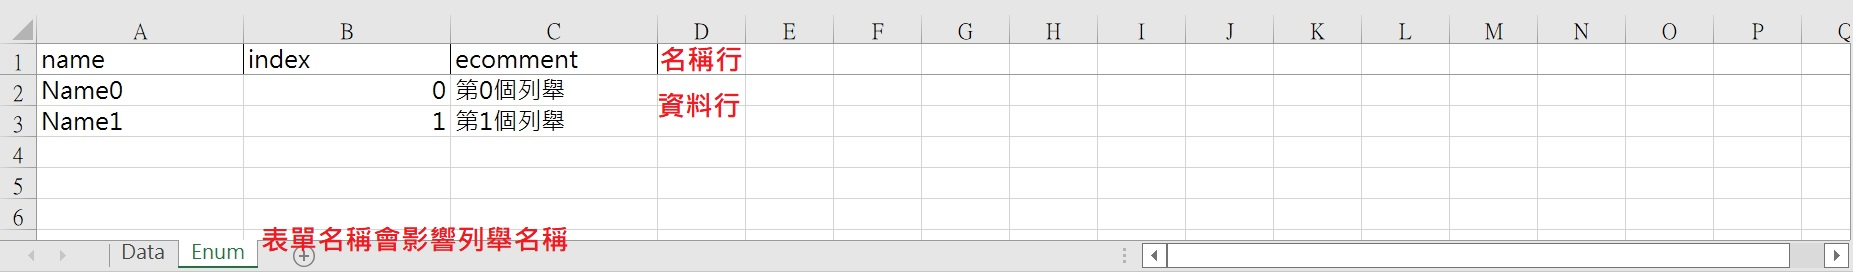
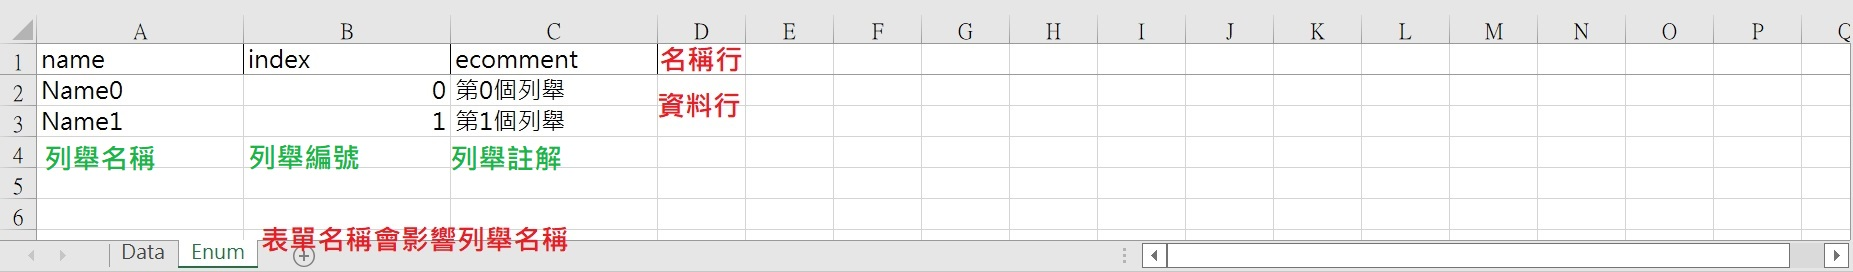
[project] 更新說明文件

Changed region(s): [[0.0, 0.5294, 0.0923, 0.6471], [0.123, 0.5294, 0.2153, 0.6471], [0.2461, 0.5294, 0.3076, 0.6471]]

diff --git a/README.md b/README.md
@@ -237,7 +237,7 @@ sheeter tmpl [flags]
 global:
   exportJson:      true # 是否產生json檔案
   exportProto:     true # 是否產生proto檔案
-  exportEnum       true # 是否產生enum檔案
+  exportEnum:      true # 是否產生enum檔案
   simpleNamespace: true # 是否用簡單的命名空間名稱
   lineOfName:      1    # 名稱行號(1為起始行)
   lineOfNote:      2    # 註解行號(1為起始行)
@@ -255,7 +255,7 @@ elements:
   - excel: excel2.xlsx
     sheet: Data
 
-enums
+enums:
   - excel: excel1.xlsx  # excel檔案名稱
     sheet: Enum         # excel表單名稱
   - excel: excel2.xlsx
@@ -268,7 +268,7 @@ enums
 模板檔案使用[go]的[template]語法, 同時可以參考以下模板參數來做名稱的替換  
 
 ## json結構, 讀取器模板參數
-struct-cs/go, reader-cs/go  
+影響的檔案: json-struct-cs/go, json-reader-cs/go  
 
 | 名稱               | 參數        | 說明                                                      |
 |:-------------------|:------------|:----------------------------------------------------------|
@@ -279,7 +279,7 @@ struct-cs/go, reader-cs/go
 |                    |             | [類型資料](#類型資料參數)                                 |
 
 ## json倉庫模板參數
-depot-cs/go  
+影響的檔案: json-depot-cs/go  
 
 | 名稱               | 參數        | 說明                                                      |
 |:-------------------|:------------|:----------------------------------------------------------|
@@ -296,7 +296,7 @@ depot-cs/go
 | Reader             |             | 是否要產生讀取器                                          |
 
 ## proto結構, 讀取器, proto架構模板參數
-struct-cs/go, reader-cs/go, proto-schema  
+影響的檔案: proto-struct-cs/go, proto-reader-cs/go, proto-schema  
 
 | 名稱               | 參數        | 說明                                                      |
 |:-------------------|:------------|:----------------------------------------------------------|
@@ -308,7 +308,7 @@ struct-cs/go, reader-cs/go, proto-schema
 | .Depend            |             | 依賴列表                                                  |
 
 ## proto倉庫模板參數
-depot-cs/go  
+影響的檔案: proto-depot-cs/go  
 
 | 名稱               | 參數        | 說明                                                      |
 |:-------------------|:------------|:----------------------------------------------------------|
@@ -325,7 +325,7 @@ depot-cs/go
 | Reader             |             | 是否要產生讀取器                                          |
 
 ## enum架構模板參數
-enum-schema  
+影響的檔案: enum-schema  
 
 | 名稱               | 參數        | 說明                                                      |
 |:-------------------|:------------|:----------------------------------------------------------|
@@ -348,11 +348,14 @@ enum-schema
 |:-------------------|:------------|:----------------------------------------------------------|
 | .ExportJson        |             | 是否產生json檔案                                          |
 | .ExportProto       |             | 是否產生proto檔案                                         |
+| .ExportEnum        |             | 是否產生enum檔案                                          |
 | .SimpleNamespace   |             | 是否用簡單的命名空間名稱                                  |
+| .LineOfName        |             | 名稱行號(1為起始行)                                       |
+| .LineOfNote        |             | 註解行號(1為起始行)                                       |
 | .LineOfField       |             | 欄位行號(1為起始行)                                       |
 | .LineOfLayer       |             | 階層行號(1為起始行)                                       |
-| .LineOfNote        |             | 註解行號(1為起始行)                                       |
 | .LineOfData        |             | 資料行號(1為起始行)                                       |
+| .LineOfEnum        |             | 列舉行號(1為起始行)                                       |
 | .Excludes          |             | 排除標籤列表                                              |
 
 ## 命名工具參數
@@ -364,6 +367,7 @@ enum-schema
 | .AppName           |             | 程式名稱                                                  |
 | .JsonNamespace     | bool        | json命名空間名稱, 參數影響是否用簡單的命名空間名稱        |
 | .ProtoNamespace    | bool        | proto命名空間名稱, 參數影響是否用簡單的命名空間名稱       |
+| .EnumNamespace     | bool        | enum命名空間名稱, 參數影響是否用簡單的命名空間名稱        |
 | .StructName        |             | 結構名稱                                                  |
 | .ReaderName        |             | 讀取器名稱                                                |
 | .StorerName        |             | 儲存器名稱                                                |
@@ -518,10 +522,10 @@ enum-schema
 | internal/fields         | 欄位組件                         |
 | internal/layers         | 階層組件                         |
 | internal/layouts        | 布局組件                         |
-| internal/mixeds         | 綜合工具                         |
+| internal/nameds         | 命名工具                         |
+| internal/pipelines      | 管線組件                         |
 | internal/tmpls          | 模板組件                         |
 | internal/utils          | 協助組件                         |
-| internal/workflow       | 工作流組件                       |
 | testdata                | 測試資料                         |
 | support                 | 支援專案                         |
 | support/benchmark_count | 檔案數量效率測試資料             |

diff --git a/CHANGELOG.md b/CHANGELOG.md
@@ -5,6 +5,7 @@ The format is based on [Keep a Changelog](https://keepachangelog.com/en/1.0.0/),
 and this project adheres to [Semantic Versioning](https://semver.org/spec/v2.0.0.html).
 
 ## [Unreleased]
+- 改進layoutType, layoutJson
 - 產生flatbuffer
 
 ## [1.9.0] - 2022-10-20
